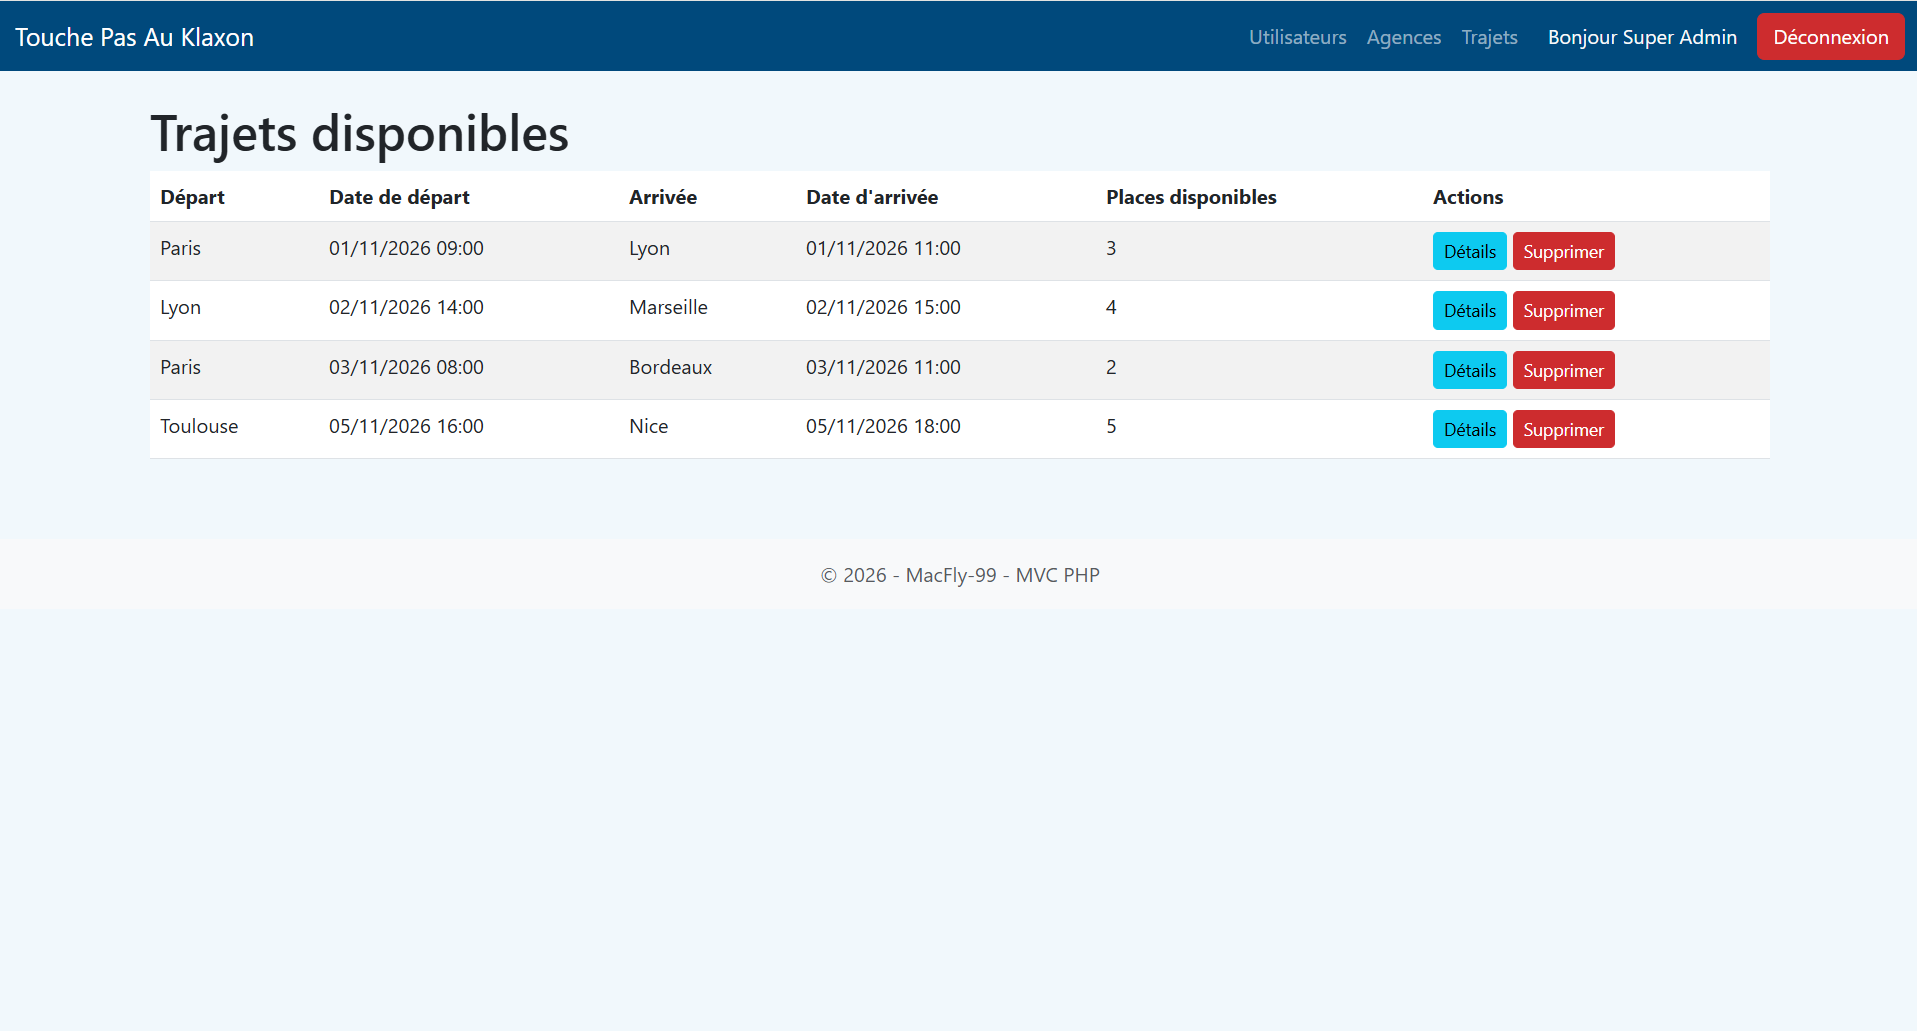
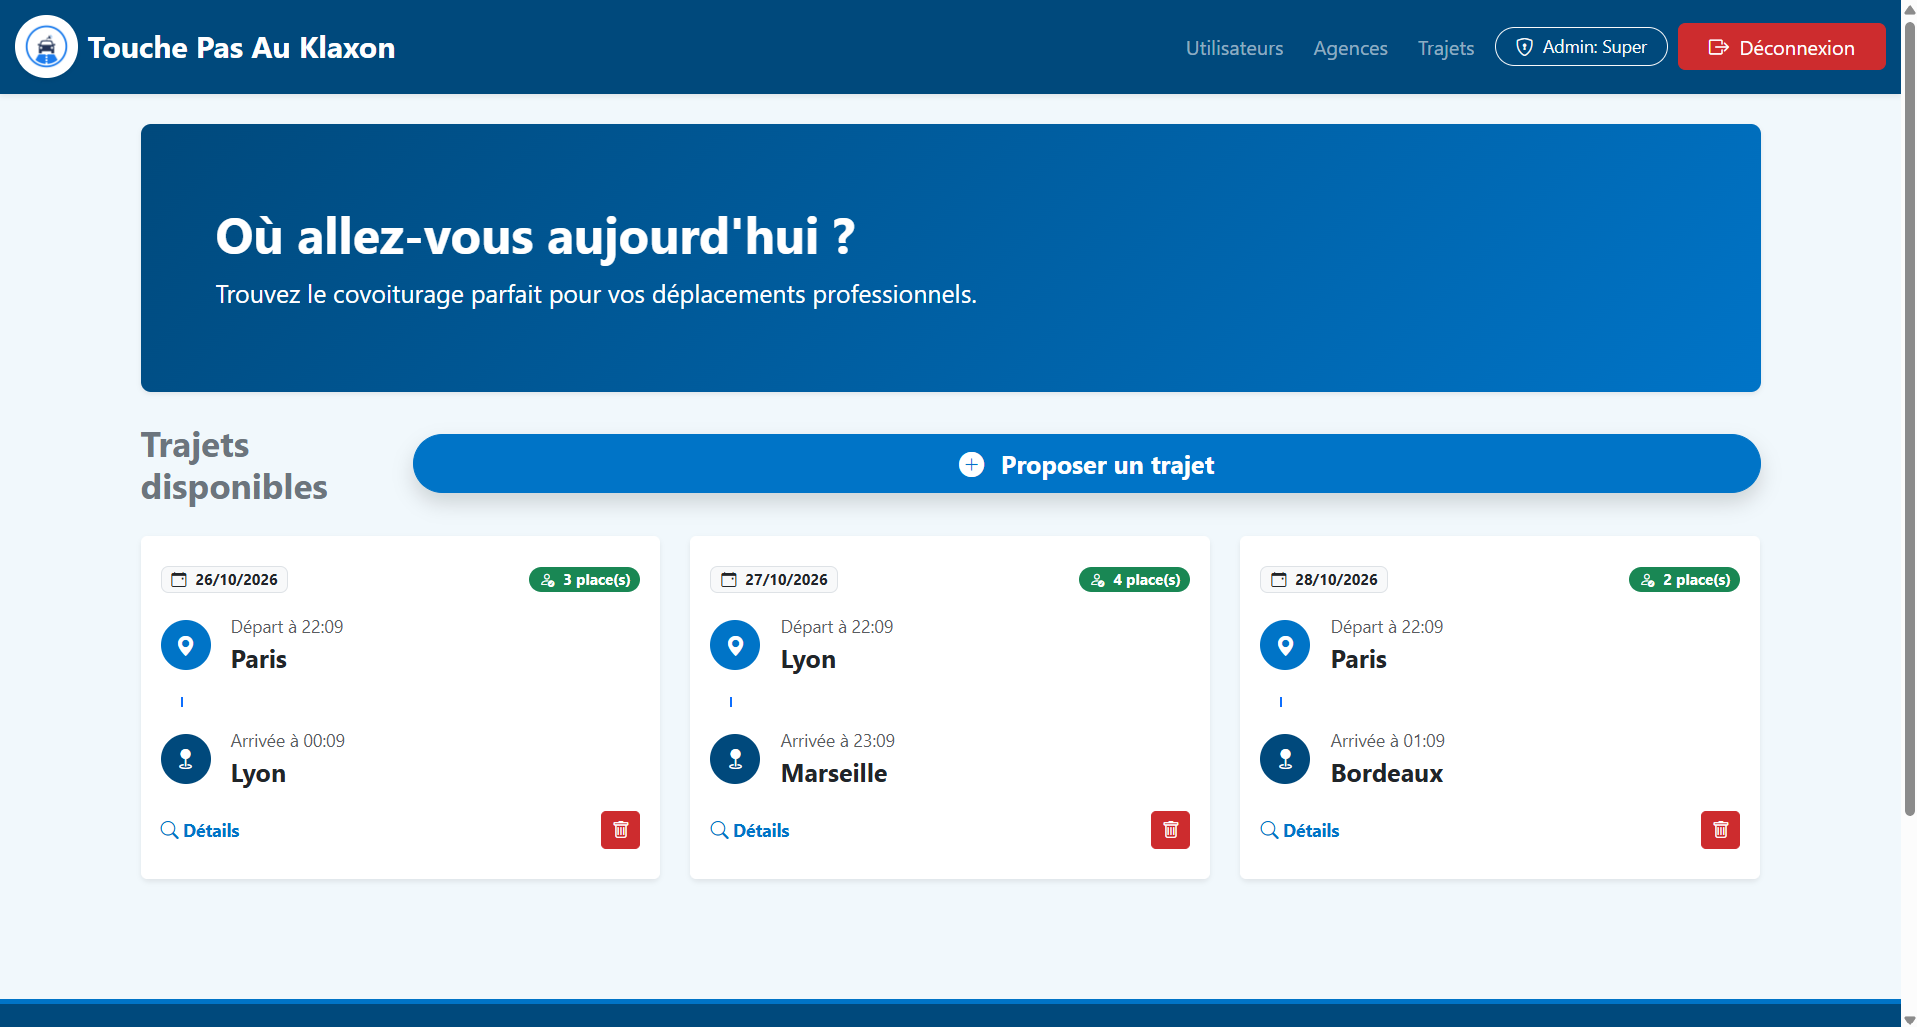
Update the projects pages by updating 3 projects

diff --git a/datas/projects.ts b/datas/projects.ts
@@ -11,48 +11,28 @@ export type Project = {
 
 // Je crée un tableau qui contient mes projets
 export const projects: Project[] = [
-  {
+    {
     id: 1,
-    title: "BTW-Cargo",
-    description: "Une API pour gérer des cargaisons de cargos.",
-    longDescription: "BTW-Cargo est une API RESTful robuste conçue pour optimiser la logistique maritime. Elle permet de gérer le suivi des conteneurs en temps réel et la gestion des stocks. Le défi principal a été de concevoir une base de données hautement relationnelle capable de supporter des milliers de requêtes simultanées sans perte de performance.",
-    tags: ["Next.js", "TypeScript", "Tailwind", "PostgreSQL", "Prisma", "NextAuth.js", "Shadcn/ui"],
-    githubUrl: "https://github.com/MacFly-99/BTW-Cargo",
-    demoUrl: "",
-    image: "/U-L_Cargo.png"
-  },
-  {
-    id: 2,
-    title: "StockGJ",
+    title: "BTW-Central",
     description: "Une application intranet de gestion de stocks et d'inventaires.",
-    longDescription: "StockGJ est une application web conçue pour la gestion efficace des stocks et des inventaires pour des entreprises. Elle offre une interface intuitive pour suivre les niveaux de stock, générer des rapports et automatiser les processus de réapprovisionnement. Le projet a été un défi en termes de conception de base de données relationnelle et d'optimisation des requêtes pour garantir des performances élevées.",
-    tags: ["MariaDB", "MySQL Workbench", "PHP"],
-    githubUrl: "https://github.com/MacFly-99/StockGJ",
+    longDescription: "BTW-Central s'inscrit dans la continuité de BTW-Cargo :  ",
+    tags: ["Next.js", "TypeScript", "Tailwind", "PostgreSQL", "Prisma", "NextAuth.js", "Shadcn/ui"],
+    githubUrl: "https://github.com/MacFly-99/BTW-Central",
     demoUrl: "",
     image: "/StockGJ.png"
   },
   {
+    id: 2,
+    title: "BTW-Cargo",
+    description: "Une API pour gérer un port de conteneurs en temps réel.",
+    longDescription: "BTW-Cargo est une API RESTful robuste conçue pour optimiser la logistique maritime. Elle permet de gérer le suivi des conteneurs en temps réel et la gestion des stocks. Le défi principal a été de concevoir une base de données hautement relationnelle capable de supporter des milliers de requêtes simultanées sans perte de performance.",
+    tags: ["Next.js", "TypeScript", "Tailwind", "PostgreSQL", "Prisma", "NextAuth.js", "Shadcn/ui"],
+    githubUrl: "https://github.com/MacFly-99/BTW-Cargo",
+    demoUrl: "https://btw-cargo.vercel.app/",
+    image: "/BTW-Cargo.png"
+  },
+  {
     id: 3,
-    title: "Touche pas au klaxon",
-    description: "Une application intranet de covoiturage pour des employés devant faire des trajets entre plusieurs villes.",
-    longDescription: "Touche pas au klaxon est une application intranet de covoiturage pour les employés d'une entreprise. Elle permet aux utilisateurs de proposer et de réserver des trajets entre différentes villes, favorisant ainsi la réduction des coûts de transport et l'empreinte carbone. Le projet a nécessité la mise en place d'un système de gestion des utilisateurs et des trajets, ainsi qu'une interface utilisateur conviviale pour faciliter la navigation et la réservation.",
-    tags: ["PHP"],
-    githubUrl: "https://github.com/MacFly-99/Touche_Pas_Au_Klaxon",
-    demoUrl: "",
-    image: "/Touche_pas_au_klaxon.png"
-  },
-  {
-    id: 4,
-    title: "Trouve ton artisan",
-    description: "Une application web pour trouver des artisans dans sa région.",
-    longDescription: "Trouve ton artisan est une application web qui permet aux utilisateurs de rechercher et de contacter des artisans locaux pour divers services. L'application offre une interface facile à utiliser pour filtrer les artisans par spécialité, localisation et avis des clients. Le projet a été un défi en termes d'intégration de bases de données relationnelles, et de mise en place d'une API RESTful pour gérer les requêtes des utilisateurs.",
-    tags: ["React", "Bootstrap", "Sass", "Node.js", "Express", "MySQL2"],
-    githubUrl: "https://github.com/MacFly-99/Trouve-ton-artisan",
-    demoUrl: "https://trouve-ton-artisan-frontend-uoyw.onrender.com/",
-    image: "/Trouve-ton-artisan.png"
-  },
-  {
-    id: 5,
     title: "Car Palace",
     description: "Une plateforme e-commerce pour l'achat/revente de pièces automobiles entre particuliers.",
     longDescription: "Car Palace est une plateforme e-commerce innovante qui facilite l'achat et la revente de pièces automobiles entre particuliers. L'application offre une interface ergonomique pour les utilisateurs, permettant de publier des annonces, de rechercher des pièces spécifiques et de communiquer directement avec les vendeurs. Le projet a été un défi en termes de conception d'une architecture scalable et sécurisée, ainsi que l'intégration de fonctionnalités avancées telles qu'une messagerie interne, ou encore le paiement en ligne.",
@@ -60,5 +40,25 @@ export const projects: Project[] = [
     githubUrl: "https://github.com/MacFly-99/Car-Palace",
     demoUrl: "https://car-palace-frontend.vercel.app/",
     image: "/Car-Palace.png"
+  },
+  {
+    id: 4,
+    title: "Touche pas au klaxon",
+    description: "Une application intranet de covoiturage pour des employés devant faire des trajets entre plusieurs villes.",
+    longDescription: "Touche pas au klaxon est une application intranet de covoiturage pour les employés d'une entreprise. Elle permet aux utilisateurs de proposer et de réserver des trajets entre différentes villes, favorisant ainsi la réduction des coûts de transport et l'empreinte carbone. Le projet a nécessité la mise en place d'un système de gestion des utilisateurs et des trajets, ainsi qu'une interface utilisateur conviviale pour faciliter la navigation et la réservation.",
+    tags: ["PHP", "Bootstrap"],
+    githubUrl: "https://github.com/MacFly-99/Touche_Pas_Au_Klaxon",
+    demoUrl: "https://touche-pas-au-klaxon-s080.onrender.com",
+    image: "/Touche_pas_au_Klaxon.png"
+  },
+  {
+    id: 5,
+    title: "Trouve ton artisan",
+    description: "Une application web pour trouver des artisans dans sa région.",
+    longDescription: "Trouve ton artisan est une application web qui permet aux utilisateurs de rechercher et de contacter des artisans locaux pour divers services. L'application offre une interface facile à utiliser pour filtrer les artisans par spécialité, localisation et avis des clients. Le projet a été un défi en termes d'intégration de bases de données relationnelles, et de mise en place d'une API RESTful pour gérer les requêtes des utilisateurs.",
+    tags: ["React", "Bootstrap", "Sass", "Node.js", "Express", "MySQL2"],
+    githubUrl: "https://github.com/MacFly-99/Trouve-ton-artisan",
+    demoUrl: "https://trouve-ton-artisan-frontend-uoyw.onrender.com/",
+    image: "/Trouve-ton-artisan.png"
   }
 ];

diff --git a/app/a-propos/page.tsx b/app/a-propos/page.tsx
@@ -84,7 +84,7 @@ export default function AboutPage() {
           </p>
           
           <p>
-            Mon parcours m'a permis d'acquérir une solide expérience sur l'ensemble de la chaîne de développement web, allant de la conception de bases de données (MySQL), à la création d'interfaces utilisateur réactives et intuitives avec React et Next.js, puis l'intégration de fonctionnalités côté serveur avec Node.js, PHP et Symfony.
+            Mon parcours m'a permis d'acquérir une solide expérience sur l'ensemble de la chaîne de développement web, allant de la conception de bases de données (SQL), à la création d'interfaces utilisateur réactives et intuitives avec React et Next.js, puis l'intégration de fonctionnalités côté serveur avec Node.js, PHP et Symfony.
           </p>
 
           <h2 className="text-2xl font-bold text-gray-900 dark:text-white pt-4">Mes compétences</h2>
@@ -95,7 +95,7 @@ export default function AboutPage() {
             animate="visible"
             className="grid grid-cols-2 sm:grid-cols-3 gap-3 pt-2"
           >
-            {["React.js", "Next.js", "TypeScript", "Vite", "Bootstrap", "Sass", "Tailwind CSS", "Node.js", "Express.js", "PHP", "Symfony", "MySQL", "MariaDB", "MongoDB", "Git"].map((skill) => (
+            {["React.js", "Next.js", "TypeScript", "Vite", "Bootstrap", "Sass", "Tailwind CSS", "SCSS", "Node.js", "Express.js", "PHP", "Symfony", "MySQL", "MariaDB", "PostgreSQL", "MongoDB", "Git"].map((skill) => (
               <motion.div 
                 key={skill} 
                 variants={skillItem}
